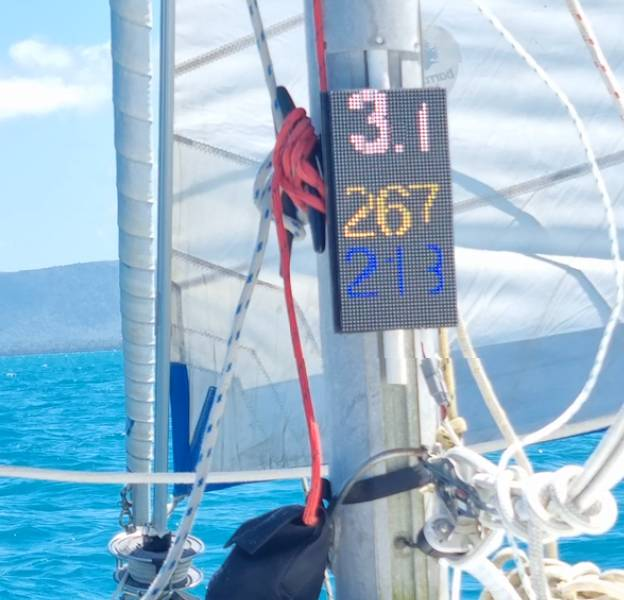
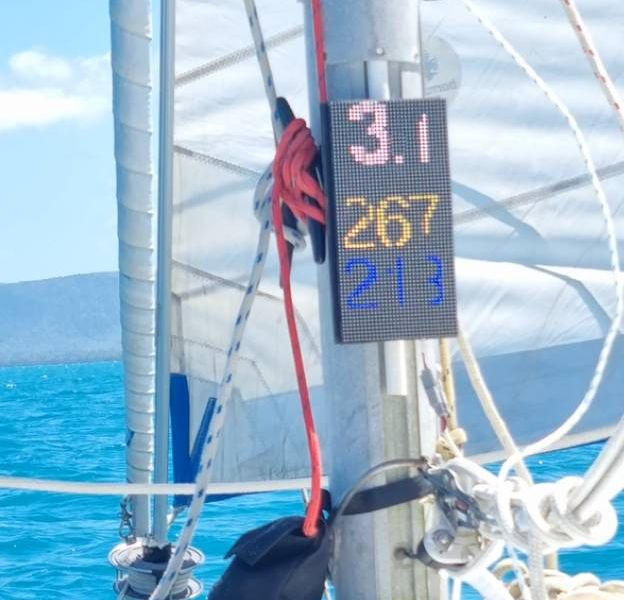
readme touch up crop rogue image screenshot led-gif, fix read_files include src properly

diff --git a/README.md b/README.md
@@ -2,23 +2,25 @@
 
 My little attempt on making a slim pcb for a pixel matrix with a Esp32 Nano board.
 
-Made this last year to have on my sailing boat and it nicely show speed and direction mounted on the mast.
+Made this last year to have on my sailing boat and it nicely show speed and bearing while mounted on the mast.
 
 At first the display didn't seem so bright but on a longer distance it actually works well.
 
+Below is a photo from sailing, the frame rate of the display does not match the shutter speed so all pixels are not lit. In real life it looks pretty good!
+
 [![Sailboat Display](gfx/rogue/rogue-led-s.jpg)](gfx/rogue/rogue-led.jpg)
 
-Above is frame capture from a video while sailing, the frame rate of the display does not match the shutter speed so all pixels are not lit. In real life it looks pretty good!
+I made a simple program to draw on the display passing json via a web server: [code/esp-ledpx](code/esp-ledpx).
 
-<!-- I made a simple program to draw on the display passing json, it works but is a little slow: [code/esp-ledpx](code/esp-ledpx) -->
+Then I made another basic one to animate gif's uploaded via a web page. [code/esp-gif-mtx](code/esp-gif-mtx).
 
-Then I made another one to animate gif's uploaded via a web since I didn't find something that did that [code/esp-gif-mtx](code/esp-gif-mtx)
+It was a while since I made a PCB and after having enough of the cable mayhem that connecting these boards up I ended up drawing a PCB and ordered it pre-soldered.
 
-It was a while since I made a PCB and after having enough of the cable mayhem that connecting these boards up, I ended up drawing a PCB and ordered it pre-soldered.
+Below is most of the process documented, use it at your own risk...
 
 # Assembly
 
-The assembled board below
+The assembled display below.
 
 [![Assembled Back](gfx/ic/assembled-back-s.jpg)](gfx/ic/assembled-back.jpg)
 [![Assembled Back](gfx/ic/assembled-side-s.jpg)](gfx/ic/assembled-side.jpg)
@@ -27,16 +29,16 @@ The full kit, showing how some of the reinforcement brackets have been cut.
 
 [![Assembled Back](gfx/ic/detached-back-s.jpg)](gfx/ic/detached-back.jpg)
 
-For extra slim fit, solder on the headers, then remove the spacers and then cut the pins 2-3 mm. Can be seen in the picture below.
+For extra slim fit, solder on the headers on the ESP, then remove the spacers and then cut the pins 2-3 mm. The cut pins be seen in the picture below.
 
 [![Assembled Back](gfx/ic/esp-mini-soldered-s.jpg)](gfx/ic/esp-mini-soldered.jpg)
 
 
 # Power
 
-On the boat I powered it via a 12->5v converter and the ESP got it's power from there.
+On the boat I powered it via a 12->5v converter and the ESP got it's power from Vin.
 
-At home I instead powered the display from the ESP via usb which seems to work fine.
+At home I instead powered the display from the ESP via USB which seems to work fine.
 
 # Schematic
 
@@ -126,6 +128,8 @@ Web server that allows simple drawing of text and basic shapes.
 
 Web server that allows uploading of gif images, can set framerate in the interface.
 [code/esp-gif-mtx](code/esp-gif-mtx)
+
+[![Gif UI](gfx/code/led-gif-mtx-s.png)](gfx/code/led-gif-mtx.png)
 
 # References
 

diff --git a/code/esp-gif-mtx/README.md b/code/esp-gif-mtx/README.md
@@ -10,7 +10,7 @@ It sets up an access point with SSID `esp-pxmtx`:`password`, defined in [src/con
 
 Access web ui on `192.168.4.1` to configure a network.
 
-The IP will be printed to serial and on the display.
+The IP will be printed to serial and on the display once connected.
 
 Then you can upload a GIF, it will be loaded into memory and drawn frame by frame.
 
@@ -18,9 +18,9 @@ Then you can upload a GIF, it will be loaded into memory and drawn frame by fram
 
 The display updating timing is crucial so any blocking io will make it crash if having large images, the workaround was to pause the display routine while uploading and loading all frames to memory, and then be able to draw them faster (~5ms per frame).
 
-To simplify development with LLMs there is a script in `scripts/read_files.sh` to extract all content with filenames. They however seem to be a bit clueless and destructive changing the code...
+To update the webpage, edit [resources/index.html](resources/index.html) and run the [scripts/gen_index.sh](scripts/gen_index.sh) to generate [src/index_html.h](src/index_html.h)
 
-To update the webpage, edit resources/index.html and run the `scripts/gen_index.sh` to generate `src/index_html.h`
+To simplify development with LLMs there is a script in [scripts/read_files.sh](scripts/read_files.sh) to extract all content with filenames. They however seem to be a bit clueless and destructive changing the code...
 
 # Gif Resources
 
